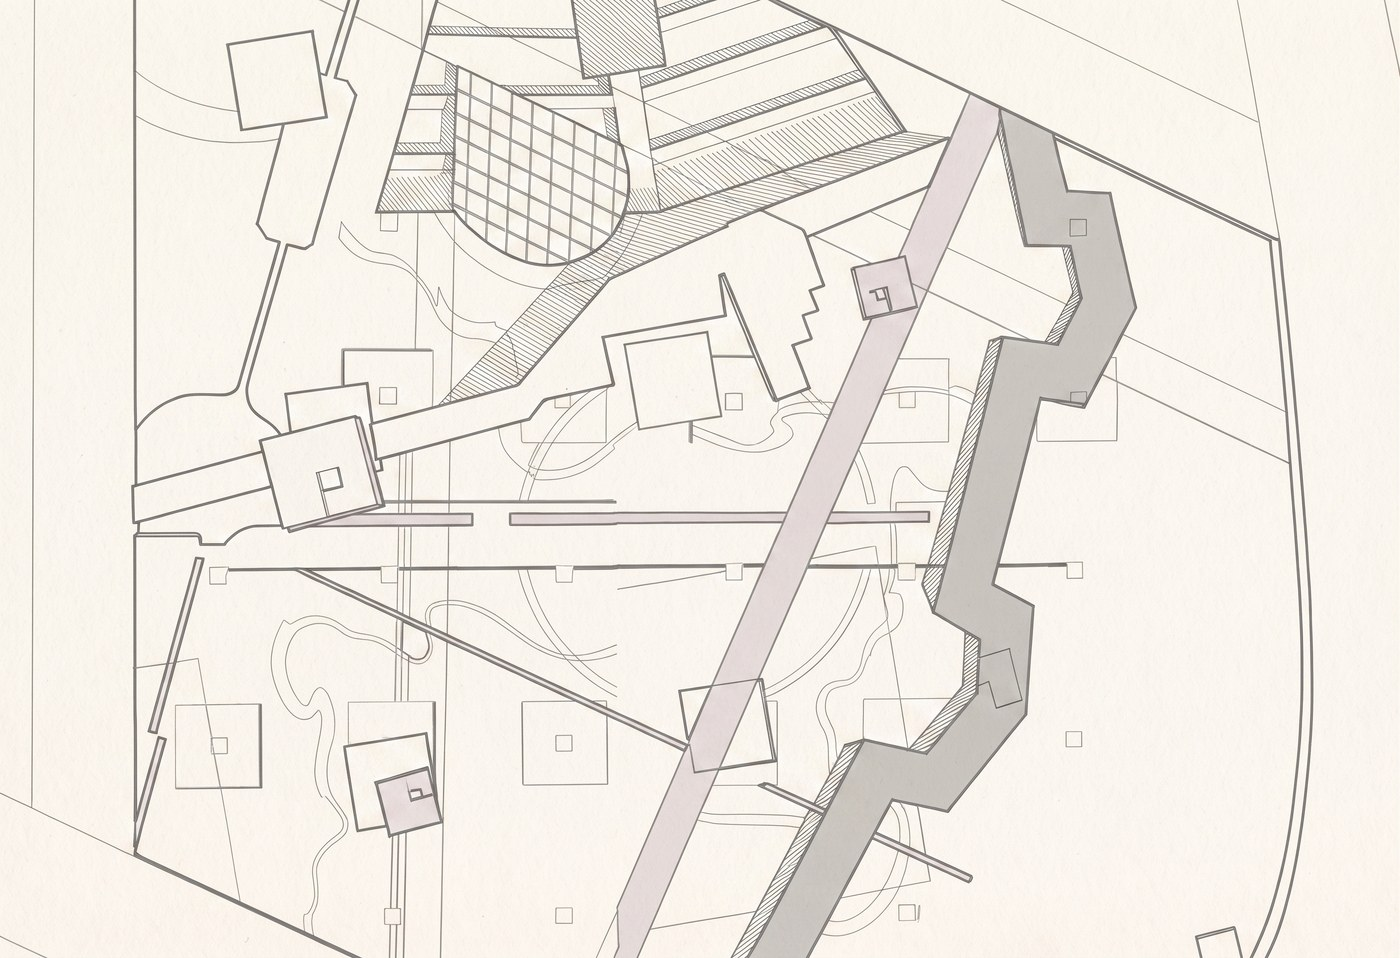
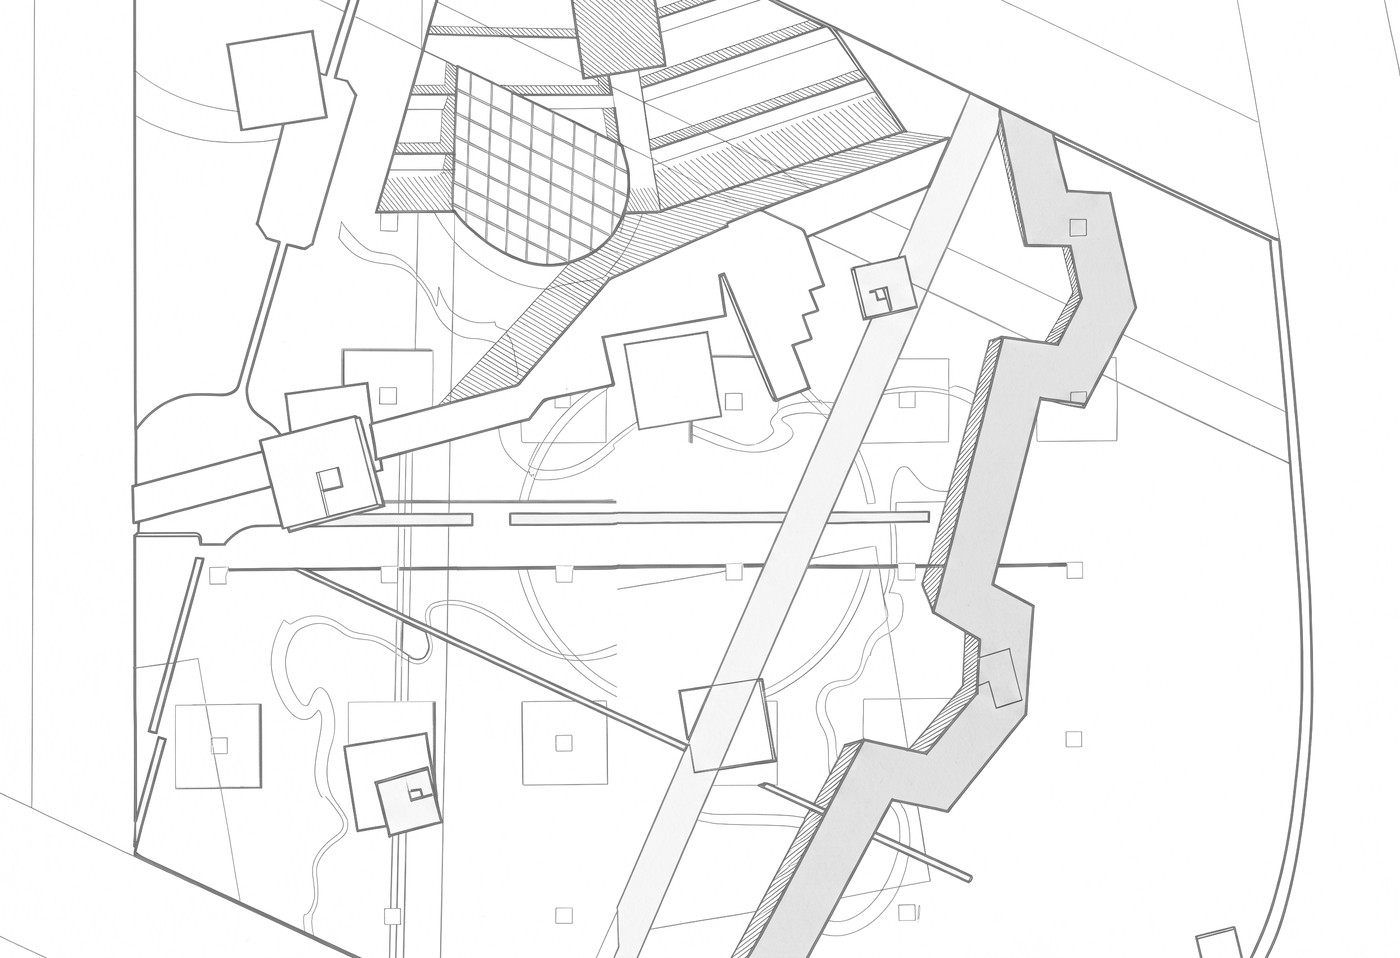
Add files via upload

diff --git a/index.html b/index.html
@@ -491,8 +491,8 @@
             <input type="text" name="first_name" placeholder="Jane" required>
           </div>
           <div class="form-group">
-            <label>Last Name</label>
-            <input type="text" name="last_name" placeholder="Doe" required>
+            <label>Broker</label>
+            <input type="text" name="brokerage" placeholder="Your brokerage" required>
           </div>
         </div>
         <div class="form-group">
